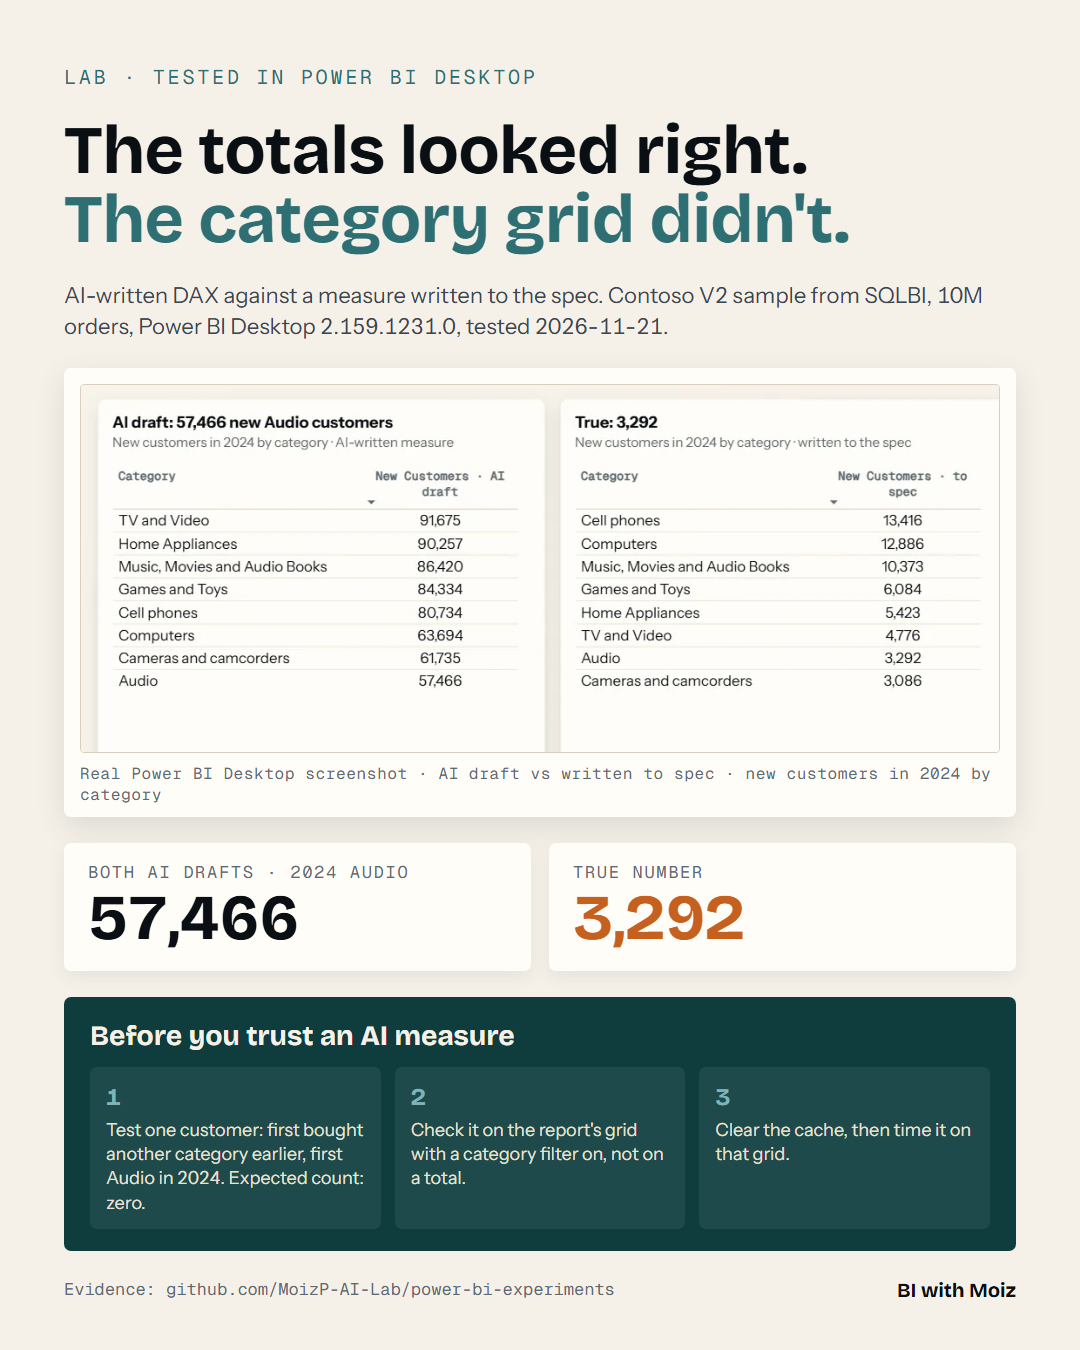
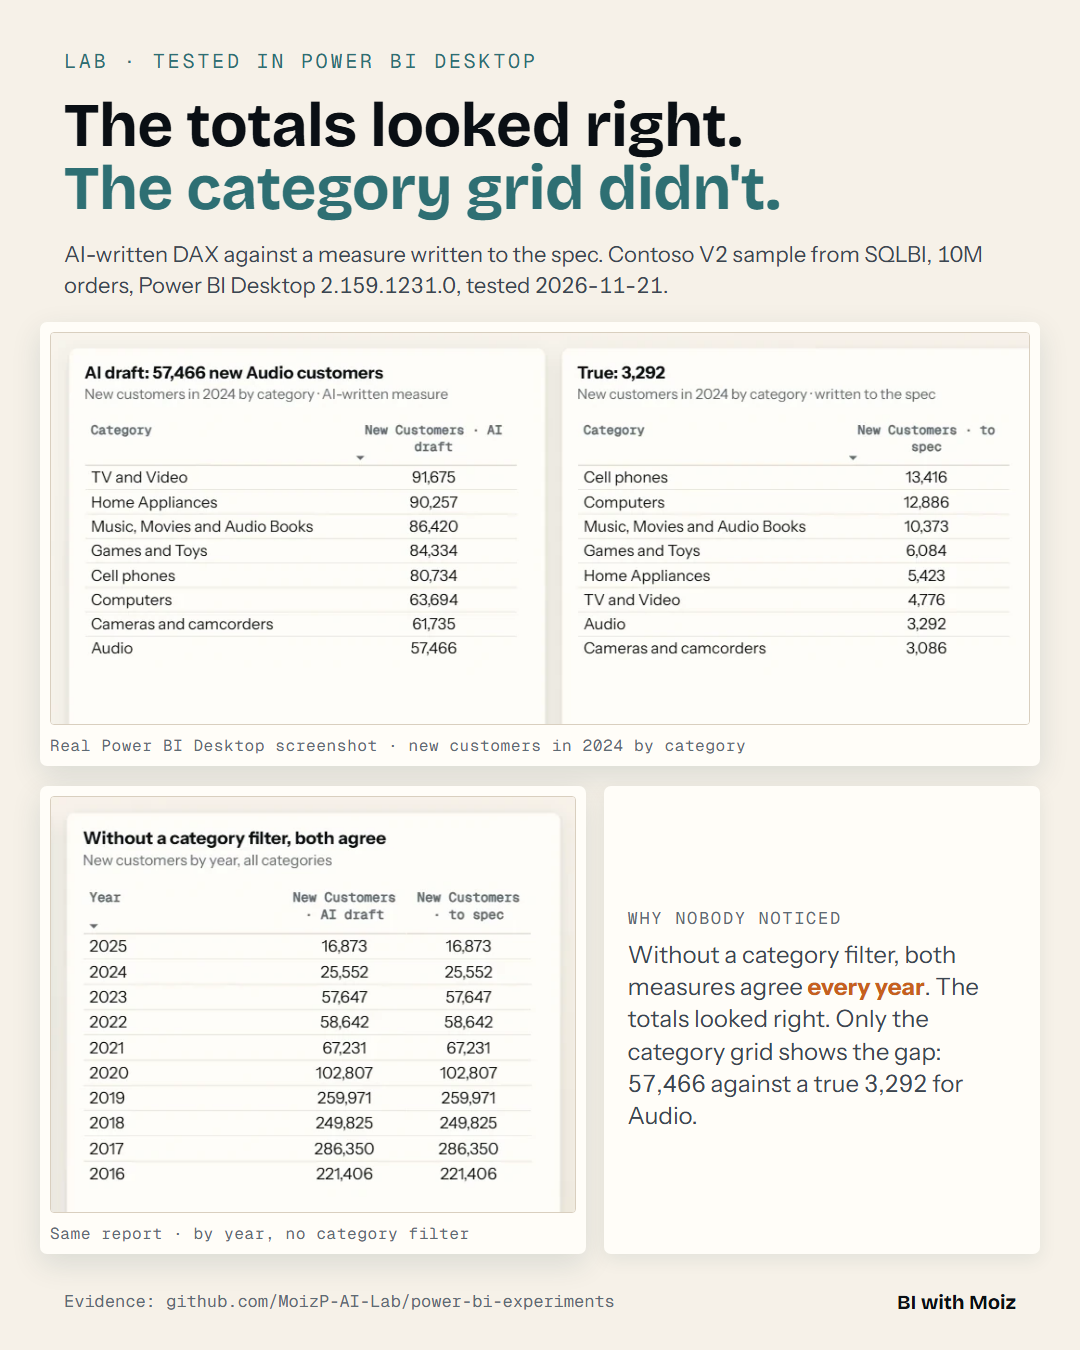
docs: by-year check for all 10 years; date-bug numbers stated the right way round

diff --git a/ai/ai-dax-10m/evidence.md b/ai/ai-dax-10m/evidence.md
@@ -55,6 +55,26 @@ Each measure in its own query, Year = 2024, as shown on the Power BI Desktop pag
 
 The written-to-spec values match the row-level check (GROUPBY over all sales lines) for every category tested.
 
+### New customers by year, no category filter (the lower table in the post image)
+
+Both measures and the row-level check (each customer's first-ever order date, from GROUPBY over all sales lines),
+checked on 2026-11-21 for every year:
+
+| Year | AI draft (Haiku) | Written to spec | From the rows |
+|---|---|---|---|
+| 2025 | 16,873 | 16,873 | 16,873 |
+| 2024 | 25,552 | 25,552 | 25,552 |
+| 2023 | 57,647 | 57,647 | 57,647 |
+| 2022 | 58,642 | 58,642 | 58,642 |
+| 2021 | 67,231 | 67,231 | 67,231 |
+| 2020 | 102,807 | 102,807 | 102,807 |
+| 2019 | 259,971 | 259,971 | 259,971 |
+| 2018 | 249,825 | 249,825 | 249,825 |
+| 2017 | 286,350 | 286,350 | 286,350 |
+| 2016 | 221,406 | 221,406 | 221,406 |
+
+Without a category filter, both measures agree with the rows in every year from 2016 to 2025.
+
 ## Speed: # New Customers on the 80-cell grid
 
 Cold cache (ClearCache before the run), server duration and peak memory from the engine's execution metrics:
@@ -82,7 +102,8 @@ the cell and finds each first purchase with ALLEXCEPT on the customer key; 87% o
 
 The first build of the base model read the parquet dates as UTC timestamps and converted them to the PC's local time
 (US Central), so every date landed one day early: the Date table ran from 2015-12-31 to 2026-12-30 while its Year
-column said 2016 to 2026. Year 2024 then summed 3,280,758,606.50 against 3,283,485,913.06 for orders dated in 2024.
+column said 2016 to 2026. Before the fix, Year = 2024 on the Date table summed 3,280,758,606.50 while the shifted order
+dates in 2024 summed 3,283,485,913.06. After the fix both give 3,280,758,606.50, the correct 2024 total.
 Fixed in the model's Power Query by dropping the zone before the date conversion. All results above are from
 the fixed model.
 
